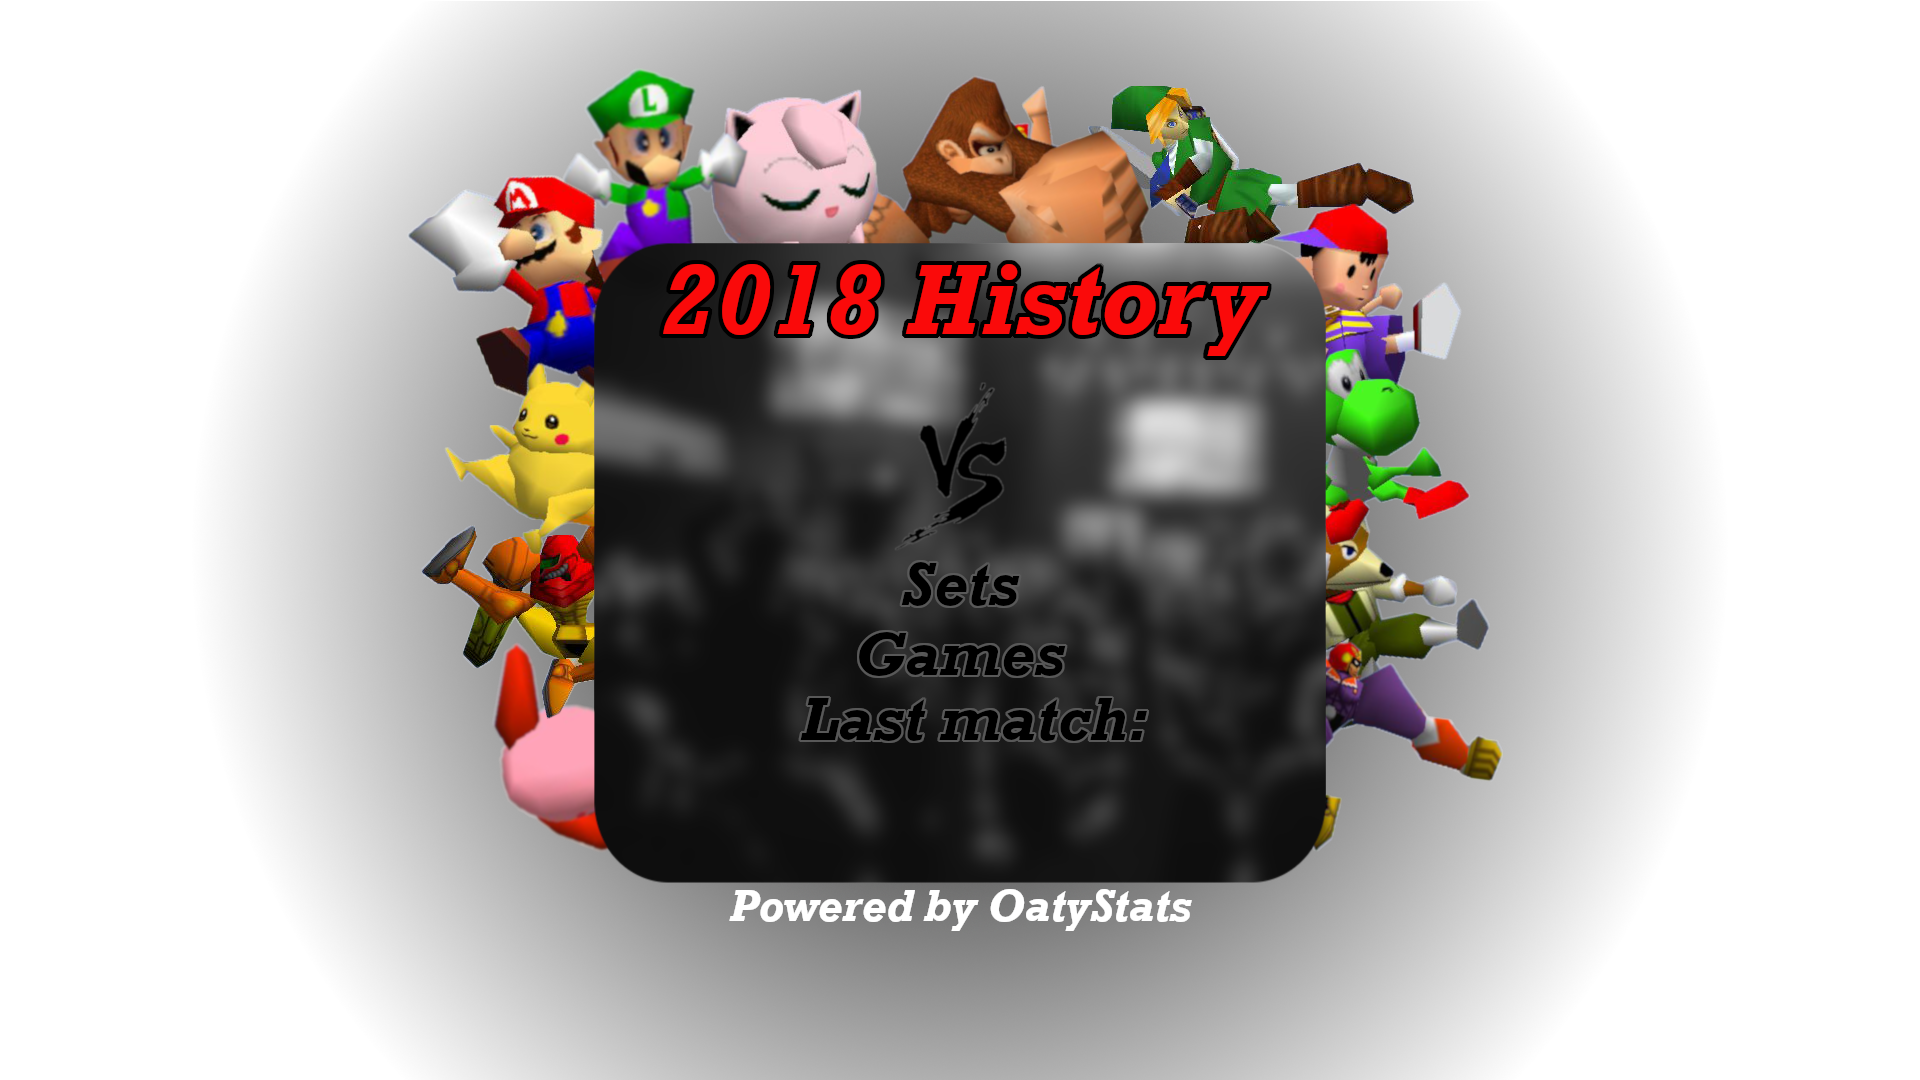
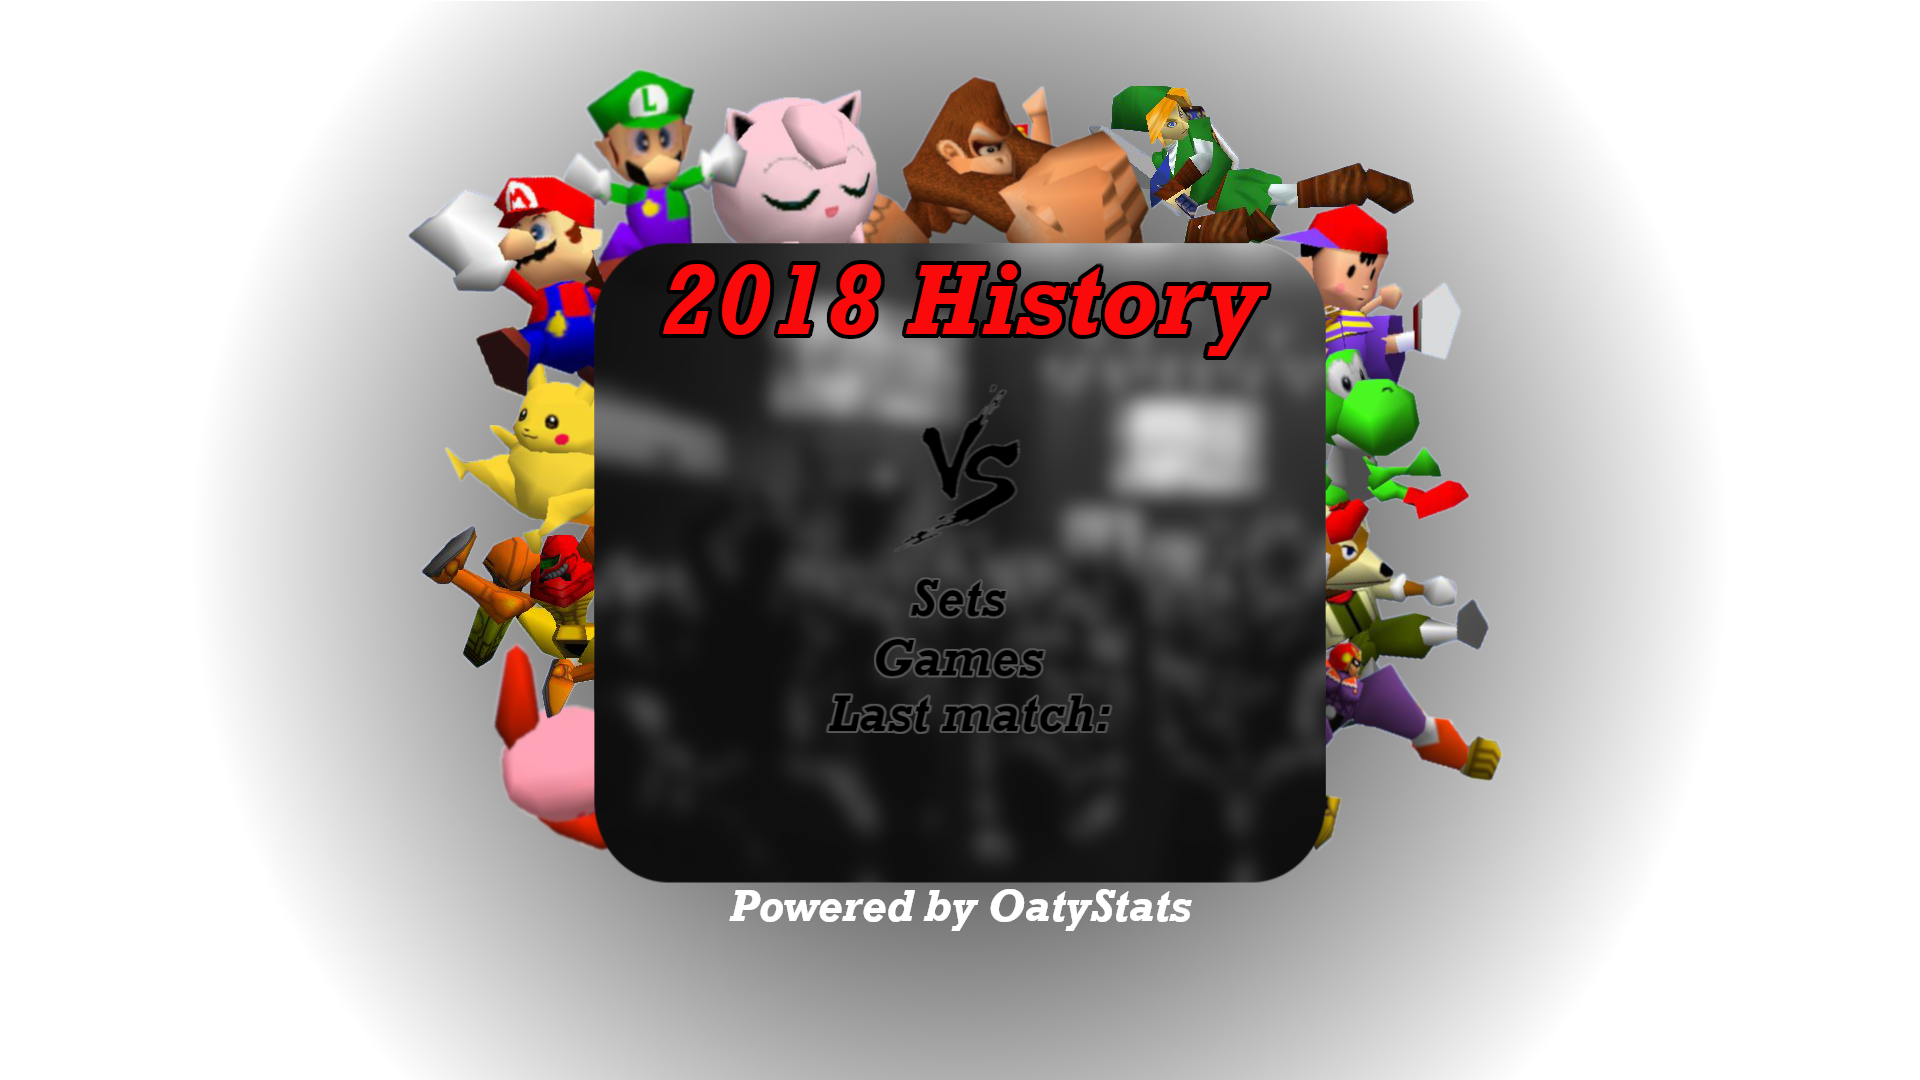
Alignment fixes
Names now resize correctly and don't move up/down when resized.

Match/Set scores numbers are now centered.

Loading is centered correctly.

Changed region(s): [[0.4062, 0.5194, 0.5938, 0.7028], [0.4688, 0.3667, 0.5312, 0.4889]]

diff --git a/OatyStats/Oatylayout.css b/OatyStats/Oatylayout.css
@@ -12,7 +12,7 @@ body {
 	text-transform: uppercase;
 	background-image: url("OatyStats_overlay.png");
 	background-repeat:no-repeat;
-	background-position: -250px 50px;
+	background-position: -250px 55px;
 	
 }
 
@@ -25,18 +25,6 @@ body {
 	opacity: 0;
 }
 
-.Country {
-	position: absolute;
-	top: 11px;
-}
-
-.Character {
-	position: absolute;
-	height: 32px;
-	width: 70px;
-	z-index: 2;
-	opacity: 0;
-}
 
 .Hidden {
 	display:none;
@@ -44,8 +32,11 @@ body {
 
 #p1SetScore {
 	position: absolute;
-	top: 560px;
-	left: 450px;
+	top: 585px;
+	left: 435px;
+	line-height: 35px; 
+	height: 35px; 
+	width: 100px; 
 	font-size: 50px;
 	text-align: center;
 	font-family: "Bold";
@@ -62,8 +53,11 @@ body {
 
 #p1MatchScore {
 	position: absolute;
-	top: 630px;
-	left: 450px;
+	top: 650px;
+	left: 435px;
+	line-height: 35px; 
+	height: 35px; 
+	width: 100px; 
 	font-size: 50px;
 	text-align: center;
 	font-family: "Bold";
@@ -80,8 +74,11 @@ body {
 
 #p2SetScore {
 	position: absolute;
-	top: 560px;
-	left: 950px;
+	top: 585px;
+	left: 890px;
+	line-height: 35px; 
+	height: 35px; 
+	width: 100px; 
 	font-size: 50px;
 	text-align: center;
 	font-family: "Bold";
@@ -98,8 +95,11 @@ body {
 
 #p2MatchScore {
 	position: absolute;
-	top: 630px;
-	left: 950px;
+	top: 650px;
+	left: 890px;
+	line-height: 35px; 
+	height: 35px; 
+	width: 100px; 
 	font-size: 50px;
 	text-align: center;
 	font-family: "Bold";
@@ -117,7 +117,7 @@ body {
 #recentSet {
 	position: absolute;
 	top: 780px;
-	left: 400px;
+	left: 500px;
 	font-size: 50px;
 	text-align: center;
 	font-family: "Bold";
@@ -134,14 +134,15 @@ body {
 
 #p1 {
 	position: absolute; 
-	top: 475px;
-	left: 350px; 
+	top: 490px;
+	left: 290px; 
+	margin: 25px 50px 50px 75px;
 	height: 67px; 
-	line-height: 25px; 
-	width: 325px; 
-	font-size: 100px;
+	line-height: 35px; 
+	width: 250px; 
 	z-index: 3; 
 	text-align: center; 
+	color: #FF0000;
     text-shadow: 
 		-1px -1px 0 #000000,
 		2px -1px 0 #000000,
@@ -156,14 +157,15 @@ body {
 
 #p2 {
 	position: absolute; 
-	top: 475px;
-	left: 790px; 
+	top: 490px;
+	left: 740px; 
+	margin: 25px 50px 50px 75px;
 	height: 67px; 
-	line-height: 25px; 
-	width: 325px; 
-	font-size: 100px;
+	line-height: 35px; 
+	width: 250px; 
 	z-index: 3; 
 	text-align: center; 
+	color: #FF0000;
     text-shadow: 
 		-1px -1px 0 #000000,
 		2px -1px 0 #000000,
@@ -178,8 +180,10 @@ body {
 #loading {
 	position: absolute; 
 	font-size: 38px;
-	top: 350px;
-	right: 1015px;
+	top: 360px;
+	right: 1000px;
+	width: 400px;
+	text-align: center; 
 	text-shadow: 
 		-1px -1px 0 #000000,
 		2px -1px 0 #000000,

diff --git a/z_Dependencies/dynamicTextBoxes.js b/z_Dependencies/dynamicTextBoxes.js
@@ -12,7 +12,7 @@ function Shrink(container) {
 }
 
 function resize(container) {
-	$(container).css('font-size', "100px");
+	$(container).css('font-size', "115px");
 	
 	Shrink(container);
 }

diff --git a/1_Singles/layout.css b/1_Singles/layout.css
@@ -280,7 +280,7 @@ body {
 	right: 550px;
 	opacity: 1;
 	height: 50px;
-	width: 650px;
+	width: 1335px;
 	text-align: left;
 	color: #FFFFFF;
     text-shadow: 
